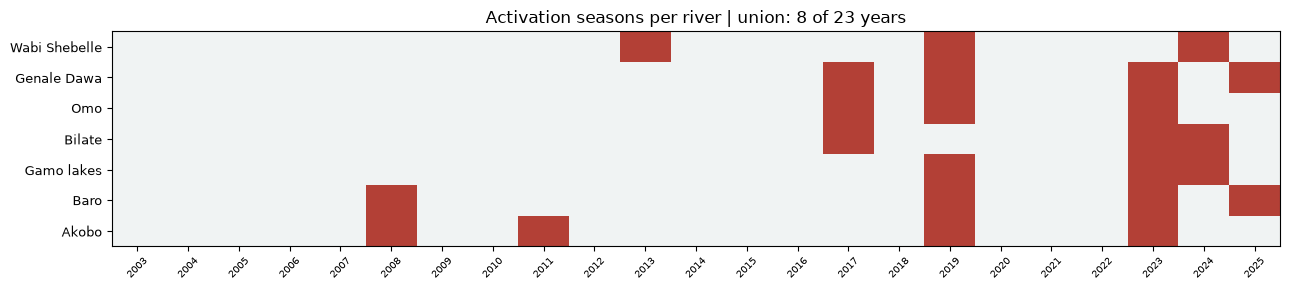
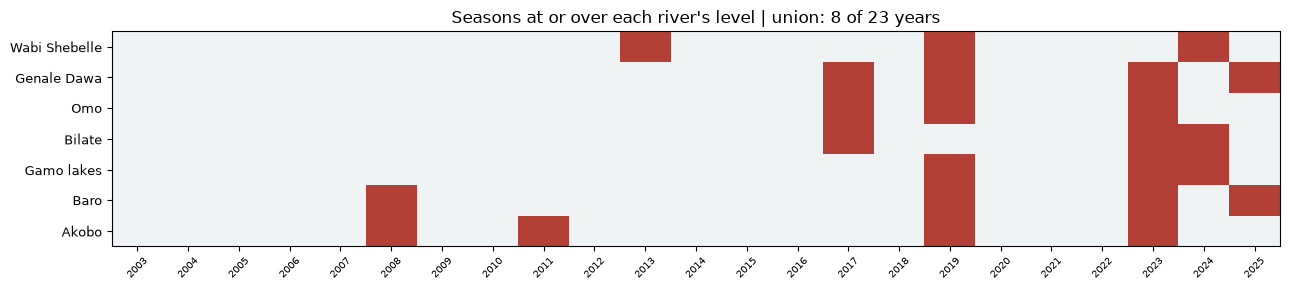
Methodology page: monitored-condition wording, no activation language
The page now describes levels being reached (keybox "The monitored
condition", "years when a level was reached") and states plainly that
there is no official trigger and nothing is released. The tiles figure
in notebook 04 retitled to match. Live watch page untouched.

Changed region(s): [[0.3413, 0.031, 0.7448, 0.0931]]

diff --git a/docs/methodology/index.html b/docs/methodology/index.html
@@ -4,7 +4,7 @@
 <meta charset="utf-8">
 <meta name="viewport" content="width=device-width, initial-scale=1">
 <title>Riverine Flood Watch Methodology</title>
-<meta name="description" content="How the Ethiopia Riverine Flood Watch works: the rivers and zones covered, how each river's OND activation level was set, the backtest and the impact record.">
+<meta name="description" content="How the Ethiopia Riverine Flood Watch works: the rivers and zones covered, how each river's OND level was set, the backtest and the impact record.">
 <link rel="preconnect" href="https://fonts.googleapis.com">
 <link rel="preconnect" href="https://fonts.gstatic.com" crossorigin>
 <link href="https://fonts.googleapis.com/css2?family=Merriweather:wght@700&family=Roboto:wght@400;500;700&display=swap" rel="stylesheet">
@@ -73,23 +73,25 @@ footer p { margin:5px 0; line-height:1.6; }
       <p class="crumb"><a href="../">Ethiopia Riverine Flood Watch</a> / methodology</p>
       <h1>How the Riverine Flood Watch works</h1>
       <p>What sits behind the watch page: the rivers and zones it covers, how each river's
-         October to December activation level was set, the alternatives that were tested, and how
-         the activation years line up with the flood impact records. Every number, table and
+         October to December level was set, the alternatives that were tested, and how the
+         years when levels were reached line up with the flood impact records. Every number, table and
          figure below comes from the analysis notebook's own output.</p>
     </div>
   </header>
 
   <article>
     <div class="keybox">
-      <p class="status">The activation rule</p>
-      <p>Reached when any of the seven river systems (Wabi Shebelle | Genale Dawa | lower Omo |
-         Bilate | Abaya-Chamo lakes | Baro | Akobo) is at or over its OND activation level on a
-         forecast day between 1 October and 31 December. Each river's level starts at the level
-         of its 3rd-largest OND season on the 2003 to 2025 GloFAS record and is lowered where
-         that catches further seasons already inside the watch's activation years, without
-         letting any new year in: a 1-in-8 to 1-in-6 event depending on the river. Overall
-         activation frequency: 8 years in 23 = 1-in-3.0 (2008, 2011, 2013, 2017, 2019,
-         2023, 2024, 2025).</p>
+      <p class="status">The monitored condition</p>
+      <p>The watch page shows REACHED when any of the seven river systems (Wabi Shebelle |
+         Genale Dawa | lower Omo | Bilate | Abaya-Chamo lakes | Baro | Akobo) is at or over its
+         OND level on a forecast day between 1 October and 31 December. Each river's level
+         starts at the level of its 3rd-largest OND season on the 2003 to 2025 GloFAS record
+         and is lowered where that catches further seasons in years when a level was already
+         reached, without letting any new year in: a 1-in-8 to 1-in-6 event depending on the
+         river. On the record, at least one river is at or over its level in 8 years in 23 =
+         1-in-3.0 (2008, 2011, 2013, 2017, 2019, 2023, 2024, 2025). This is a monitoring
+         condition only: there is no official trigger behind this page and nothing is released
+         when a level is reached.</p>
     </div>
 
     <h2>The rivers and zones covered</h2>
@@ -105,68 +107,68 @@ footer p { margin:5px 0; line-height:1.6; }
        peak divided by its median OND seasonal maximum, which lets stations of very different
        size carry equal weight inside one system. The river's threshold ratio starts at its
        3rd-largest season statistic and is lowered to also catch its lower-ranked seasons that
-       fall in the overall activation years, stopping at the first season outside
+       fall in years when a level was already reached, stopping at the first season outside
        them so no new year can enter (Genale Dawa and Baro gain 2019, Akobo gains 2008). Each
        station's level in m³/s is that ratio times the station's median OND seasonal maximum.
        Record: GloFAS v4 reanalysis at channel-snapped cells, October to December, 2003 to
        2025. v4 is pinned because the operational forecast runs at v4 scale.</p>
-    <div class="tablewrap"><table class="data"><thead><tr><th>River system</th><th>Station</th><th>Zone</th><th class="num">Median OND max (m³/s)</th><th class="num">Activation level (m³/s)</th><th class="num">Level / median</th></tr></thead><tbody><tr class="group"><td class="river" rowspan="5">Wabi Shebelle</td><td>Shabelle at Gode (G1904)</td><td>Shebelle</td><td class="num">989</td><td class="num"><strong>1,213</strong></td><td class="num">1.23</td></tr><tr><td>Shabelle upstream (43.03E 6.08N)</td><td>Shebelle</td><td class="num">986</td><td class="num"><strong>1,210</strong></td><td class="num">1.23</td></tr><tr><td>Shabelle mid (44.13E 5.63N)</td><td>Shebelle</td><td class="num">989</td><td class="num"><strong>1,213</strong></td><td class="num">1.23</td></tr><tr><td>Shabelle lower (44.53E 5.43N)</td><td>Shebelle</td><td class="num">989</td><td class="num"><strong>1,213</strong></td><td class="num">1.23</td></tr><tr><td>Shabelle at border (44.83E 5.13N)</td><td>Shebelle</td><td class="num">988</td><td class="num"><strong>1,213</strong></td><td class="num">1.23</td></tr><tr class="group"><td class="river" rowspan="4">Genale Dawa</td><td>Genale upper (40.45E 5.35N)</td><td>Liban</td><td class="num">527</td><td class="num"><strong>790</strong></td><td class="num">1.50</td></tr><tr><td>Genale/Juba at Dolow</td><td>Liban</td><td class="num">1,558</td><td class="num"><strong>2,337</strong></td><td class="num">1.50</td></tr><tr><td>Dawa (40.73E 4.43N)</td><td>Daawa</td><td class="num">280</td><td class="num"><strong>419</strong></td><td class="num">1.50</td></tr><tr><td>Webe Gestro (42.08E 4.73N)</td><td>Afder</td><td class="num">193</td><td class="num"><strong>290</strong></td><td class="num">1.50</td></tr><tr class="group"><td class="river" rowspan="1">Omo</td><td>Omo lower (South Omo)</td><td>South Omo</td><td class="num">3,806</td><td class="num"><strong>4,830</strong></td><td class="num">1.27</td></tr><tr class="group"><td class="river" rowspan="1">Bilate</td><td>Bilate (Loka Abaya)</td><td>Sidama</td><td class="num">142</td><td class="num"><strong>217</strong></td><td class="num">1.53</td></tr><tr class="group"><td class="river" rowspan="1">Gamo lakes</td><td>Abaya-Chamo lakes (Kulfo area)</td><td>Gamo</td><td class="num">462</td><td class="num"><strong>706</strong></td><td class="num">1.53</td></tr><tr class="group"><td class="river" rowspan="1">Baro</td><td>Baro at Itang</td><td>Itang Special woreda</td><td class="num">1,601</td><td class="num"><strong>1,989</strong></td><td class="num">1.24</td></tr><tr class="group"><td class="river" rowspan="1">Akobo</td><td>Akobo (Agnewak)</td><td>Agnewak</td><td class="num">285</td><td class="num"><strong>368</strong></td><td class="num">1.29</td></tr></tbody></table></div>
-    <p class="tnote">Level / median: how far above a typical OND peak the activation level sits.
+    <div class="tablewrap"><table class="data"><thead><tr><th>River system</th><th>Station</th><th>Zone</th><th class="num">Median OND max (m³/s)</th><th class="num">Level (m³/s)</th><th class="num">Level / median</th></tr></thead><tbody><tr class="group"><td class="river" rowspan="5">Wabi Shebelle</td><td>Shabelle at Gode (G1904)</td><td>Shebelle</td><td class="num">989</td><td class="num"><strong>1,213</strong></td><td class="num">1.23</td></tr><tr><td>Shabelle upstream (43.03E 6.08N)</td><td>Shebelle</td><td class="num">986</td><td class="num"><strong>1,210</strong></td><td class="num">1.23</td></tr><tr><td>Shabelle mid (44.13E 5.63N)</td><td>Shebelle</td><td class="num">989</td><td class="num"><strong>1,213</strong></td><td class="num">1.23</td></tr><tr><td>Shabelle lower (44.53E 5.43N)</td><td>Shebelle</td><td class="num">989</td><td class="num"><strong>1,213</strong></td><td class="num">1.23</td></tr><tr><td>Shabelle at border (44.83E 5.13N)</td><td>Shebelle</td><td class="num">988</td><td class="num"><strong>1,213</strong></td><td class="num">1.23</td></tr><tr class="group"><td class="river" rowspan="4">Genale Dawa</td><td>Genale upper (40.45E 5.35N)</td><td>Liban</td><td class="num">527</td><td class="num"><strong>790</strong></td><td class="num">1.50</td></tr><tr><td>Genale/Juba at Dolow</td><td>Liban</td><td class="num">1,558</td><td class="num"><strong>2,337</strong></td><td class="num">1.50</td></tr><tr><td>Dawa (40.73E 4.43N)</td><td>Daawa</td><td class="num">280</td><td class="num"><strong>419</strong></td><td class="num">1.50</td></tr><tr><td>Webe Gestro (42.08E 4.73N)</td><td>Afder</td><td class="num">193</td><td class="num"><strong>290</strong></td><td class="num">1.50</td></tr><tr class="group"><td class="river" rowspan="1">Omo</td><td>Omo lower (South Omo)</td><td>South Omo</td><td class="num">3,806</td><td class="num"><strong>4,830</strong></td><td class="num">1.27</td></tr><tr class="group"><td class="river" rowspan="1">Bilate</td><td>Bilate (Loka Abaya)</td><td>Sidama</td><td class="num">142</td><td class="num"><strong>217</strong></td><td class="num">1.53</td></tr><tr class="group"><td class="river" rowspan="1">Gamo lakes</td><td>Abaya-Chamo lakes (Kulfo area)</td><td>Gamo</td><td class="num">462</td><td class="num"><strong>706</strong></td><td class="num">1.53</td></tr><tr class="group"><td class="river" rowspan="1">Baro</td><td>Baro at Itang</td><td>Itang Special woreda</td><td class="num">1,601</td><td class="num"><strong>1,989</strong></td><td class="num">1.24</td></tr><tr class="group"><td class="river" rowspan="1">Akobo</td><td>Akobo (Agnewak)</td><td>Agnewak</td><td class="num">285</td><td class="num"><strong>368</strong></td><td class="num">1.29</td></tr></tbody></table></div>
+    <p class="tnote">Level / median: how far above a typical OND peak the level sits.
        All Wabi Shebelle stations share one ratio (1.23) because the river's statistic is set
        by its floodiest station each season; the same holds within each river system.</p>
 
     <h2>Twenty-three OND seasons, river by river</h2>
     <figure>
-      <img src="figs/season_statistic.png" alt="Season statistic per river with the activation seasons boxed">
+      <img src="figs/season_statistic.png" alt="Season statistic per river with the reached seasons boxed">
       <figcaption>Each river's season statistic (normalised seasonal peak), 2003 to 2025.
         Red boxes: the seasons at or over the river's level.</figcaption>
     </figure>
     <figure>
-      <img src="figs/activations.png" alt="Activation seasons per river and the union">
-      <figcaption>Seasons at or over each river's level, and the any-river union the watch
-        activates on.</figcaption>
+      <img src="figs/activations.png" alt="Seasons at or over each river's level and the union">
+      <figcaption>Seasons at or over each river's level, and the any-river union across
+        them.</figcaption>
     </figure>
     <div class="tablewrap"><table class="data"><thead><tr><th>River system</th><th>OND seasons at or over its level</th><th class="num">Frequency</th></tr></thead><tbody><tr><td class="river">Wabi Shebelle</td><td><span class="yr">2013</span> <span class="yr">2019</span> <span class="yr">2024</span></td><td class="num">1-in-8</td></tr><tr><td class="river">Genale Dawa</td><td><span class="yr">2017</span> <span class="yr">2019</span> <span class="yr">2023</span> <span class="yr">2025</span></td><td class="num">1-in-6</td></tr><tr><td class="river">Omo</td><td><span class="yr">2017</span> <span class="yr">2019</span> <span class="yr">2023</span></td><td class="num">1-in-8</td></tr><tr><td class="river">Bilate</td><td><span class="yr">2017</span> <span class="yr">2023</span> <span class="yr">2024</span></td><td class="num">1-in-8</td></tr><tr><td class="river">Gamo lakes</td><td><span class="yr">2019</span> <span class="yr">2023</span> <span class="yr">2024</span></td><td class="num">1-in-8</td></tr><tr><td class="river">Baro</td><td><span class="yr">2008</span> <span class="yr">2019</span> <span class="yr">2023</span> <span class="yr">2025</span></td><td class="num">1-in-6</td></tr><tr><td class="river">Akobo</td><td><span class="yr">2008</span> <span class="yr">2011</span> <span class="yr">2019</span> <span class="yr">2023</span></td><td class="num">1-in-6</td></tr><tr class="total"><td class="river">Any river (overall)</td><td><span class="yr">2008</span> <span class="yr">2011</span> <span class="yr">2013</span> <span class="yr">2017</span> <span class="yr">2019</span> <span class="yr">2023</span> <span class="yr">2024</span> <span class="yr">2025</span></td><td class="num">1-in-3.0</td></tr></tbody></table></div>
 
     <h2>How the depth was chosen</h2>
     <p>The working group's constraints were per-river ranking, an any-river rule, and an
-       overall activation frequency of 1-in-3. At a per-river top third the union activates in
-       18 of 23 years (1-in-1.3). The candidates compared:</p>
-    <div class="tablewrap"><table class="data"><thead><tr><th>Candidate rule</th><th class="num">Activation years</th><th class="num">Overall frequency</th><th class="num">EM-DAT years caught</th><th class="num">CERF years caught</th><th class="num">FloodScan RP3 years caught</th><th>Years</th></tr></thead><tbody><tr class="adopted"><td class="wrap">any river, per-river top 3 (indiv 1-in-8) <span class="tag">adopted</span></td><td class="num">8 of 23</td><td class="num">1-in-3.0</td><td class="num">4 of 7</td><td class="num">1 of 4</td><td class="num">3 of 8</td><td class="wrap dim">2008, 2011, 2013, 2017, 2019, 2023, 2024, 2025</td></tr><tr><td class="wrap">any river, per-river top 4 (indiv 1-in-6)</td><td class="num">10 of 23</td><td class="num">1-in-2.4</td><td class="num">4 of 7</td><td class="num">2 of 4</td><td class="num">3 of 8</td><td class="wrap dim">2008, 2011, 2013, 2014, 2017, 2019, 2020, 2023...</td></tr><tr><td class="wrap">any river, per-river top 8 (indiv 1-in-3)</td><td class="num">18 of 23</td><td class="num">1-in-1.3</td><td class="num">6 of 7</td><td class="num">3 of 4</td><td class="num">5 of 8</td><td class="wrap dim">2005, 2007, 2008, 2010, 2011, 2012, 2013, 2014...</td></tr><tr><td class="wrap">top third per river, at least 3 of 7 rivers to...</td><td class="num">10 of 23</td><td class="num">1-in-2.4</td><td class="num">3 of 7</td><td class="num">2 of 4</td><td class="num">2 of 8</td><td class="wrap dim">2008, 2013, 2014, 2017, 2019, 2020, 2021, 2023...</td></tr><tr><td class="wrap">top third per river, at least 4 of 7 rivers to...</td><td class="num">6 of 23</td><td class="num">1-in-4.0</td><td class="num">2 of 7</td><td class="num">2 of 4</td><td class="num">2 of 8</td><td class="wrap dim">2014, 2017, 2019, 2020, 2023, 2024</td></tr></tbody></table></div>
+       overall frequency of 1-in-3. At a per-river top third, at least one river is over its
+       level in 18 of 23 years (1-in-1.3). The candidates compared:</p>
+    <div class="tablewrap"><table class="data"><thead><tr><th>Candidate rule</th><th class="num">Years reached</th><th class="num">Overall frequency</th><th class="num">EM-DAT years caught</th><th class="num">CERF years caught</th><th class="num">FloodScan RP3 years caught</th><th>Years</th></tr></thead><tbody><tr class="adopted"><td class="wrap">any river, per-river top 3 (indiv 1-in-8) <span class="tag">adopted</span></td><td class="num">8 of 23</td><td class="num">1-in-3.0</td><td class="num">4 of 7</td><td class="num">1 of 4</td><td class="num">3 of 8</td><td class="wrap dim">2008, 2011, 2013, 2017, 2019, 2023, 2024, 2025</td></tr><tr><td class="wrap">any river, per-river top 4 (indiv 1-in-6)</td><td class="num">10 of 23</td><td class="num">1-in-2.4</td><td class="num">4 of 7</td><td class="num">2 of 4</td><td class="num">3 of 8</td><td class="wrap dim">2008, 2011, 2013, 2014, 2017, 2019, 2020, 2023...</td></tr><tr><td class="wrap">any river, per-river top 8 (indiv 1-in-3)</td><td class="num">18 of 23</td><td class="num">1-in-1.3</td><td class="num">6 of 7</td><td class="num">3 of 4</td><td class="num">5 of 8</td><td class="wrap dim">2005, 2007, 2008, 2010, 2011, 2012, 2013, 2014...</td></tr><tr><td class="wrap">top third per river, at least 3 of 7 rivers to...</td><td class="num">10 of 23</td><td class="num">1-in-2.4</td><td class="num">3 of 7</td><td class="num">2 of 4</td><td class="num">2 of 8</td><td class="wrap dim">2008, 2013, 2014, 2017, 2019, 2020, 2021, 2023...</td></tr><tr><td class="wrap">top third per river, at least 4 of 7 rivers to...</td><td class="num">6 of 23</td><td class="num">1-in-4.0</td><td class="num">2 of 7</td><td class="num">2 of 4</td><td class="num">2 of 8</td><td class="wrap dim">2014, 2017, 2019, 2020, 2023, 2024</td></tr></tbody></table></div>
     <p>The adopted depth is the first row: the only candidate meeting the overall 1-in-3 exactly
        while keeping the any-river shape and per-river ranking. Its per-river bar is 1-in-8
        rather than the top third; the working group accepted that trade on 29 September 2026.
        On 30 September 2026 the per-river levels were lowered within that rule, just far enough
-       to catch each river's lower-ranked seasons that are already overall activation years
+       to catch each river's lower-ranked seasons in years when a level was already reached
        (Genale Dawa and Baro gain 2019, Akobo gains 2008, each moving to 1-in-6; the other four
-       rivers' next seasons fall outside the activation years, so their levels are unchanged).
-       The overall activation years and the 1-in-3.0 frequency are unchanged; no new years
+       rivers' next seasons fall outside those years, so their levels are unchanged).
+       The overall reached years and the 1-in-3.0 frequency are unchanged; no new years
        enter.</p>
     <p class="tnote">Years caught: of the years each impact record flags (7 EM-DAT, 4 CERF,
-       8 FloodScan RP3), how many are activation years.</p>
+       8 FloodScan RP3), how many fall in that rule's reached years.</p>
 
-    <h2>Activations beside the impact records, year by year</h2>
-    <p>Three records beside the activation years: FloodScan flood events in the Somali-region riverine
+    <h2>The years reached, beside the impact records</h2>
+    <p>Three records beside the years when a level was reached: FloodScan flood events in the Somali-region riverine
        zones (satellite; the extract for the other zones is not built and is a named gap),
        EM-DAT flood events whose locations name the riverine areas and whose dates touch OND
        (manually refreshed snapshot), and CERF allocations to Ethiopia with emergency type
        flood (national record).</p>
-    <div class="tablewrap"><table class="data"><thead><tr><th class="num">Year</th><th>Activation</th><th class="ctr">FloodScan RP2</th><th class="ctr">FloodScan RP3</th><th>EM-DAT riverine floods</th><th>CERF flood allocations</th></tr></thead><tbody><tr><td class="num">2003</td><td></td><td class="ctr"></td><td class="ctr"></td><td></td><td></td></tr><tr><td class="num">2004</td><td></td><td class="ctr"><span class="dot"></span></td><td class="ctr"><span class="dot"></span></td><td></td><td></td></tr><tr><td class="num">2005</td><td></td><td class="ctr"></td><td class="ctr"></td><td></td><td></td></tr><tr><td class="num">2006</td><td></td><td class="ctr"><span class="dot"></span></td><td class="ctr"><span class="dot"></span></td><td>1 event : 361,600 affected</td><td>USD 5.0M (2)</td></tr><tr><td class="num">2007</td><td></td><td class="ctr"><span class="dot"></span></td><td class="ctr"><span class="dot"></span></td><td>1 event : 239,586 affected</td><td></td></tr><tr class="hit"><td class="num">2008</td><td><span class="reached">reached</span></td><td class="ctr"><span class="dot"></span></td><td class="ctr"></td><td>1 event : 23,831 affected</td><td></td></tr><tr><td class="num">2009</td><td></td><td class="ctr"><span class="dot"></span></td><td class="ctr"><span class="dot"></span></td><td></td><td></td></tr><tr><td class="num">2010</td><td></td><td class="ctr"></td><td class="ctr"></td><td></td><td></td></tr><tr class="hit"><td class="num">2011</td><td><span class="reached">reached</span></td><td class="ctr"><span class="dot"></span></td><td class="ctr"><span class="dot"></span></td><td>1 event : 40,200 affected</td><td></td></tr><tr><td class="num">2012</td><td></td><td class="ctr"></td><td class="ctr"></td><td></td><td></td></tr><tr class="hit"><td class="num">2013</td><td><span class="reached">reached</span></td><td class="ctr"><span class="dot"></span></td><td class="ctr"></td><td></td><td></td></tr><tr><td class="num">2014</td><td></td><td class="ctr"></td><td class="ctr"></td><td></td><td></td></tr><tr><td class="num">2015</td><td></td><td class="ctr"><span class="dot"></span></td><td class="ctr"></td><td>1 event : 210,600 affected</td><td></td></tr><tr><td class="num">2016</td><td></td><td class="ctr"></td><td class="ctr"></td><td></td><td></td></tr><tr class="hit"><td class="num">2017</td><td><span class="reached">reached</span></td><td class="ctr"><span class="dot"></span></td><td class="ctr"><span class="dot"></span></td><td></td><td></td></tr><tr><td class="num">2018</td><td></td><td class="ctr"></td><td class="ctr"></td><td></td><td>USD 5.3M (1)</td></tr><tr class="hit"><td class="num">2019</td><td><span class="reached">reached</span></td><td class="ctr"></td><td class="ctr"></td><td>1 event : 200,000 affected</td><td></td></tr><tr><td class="num">2020</td><td></td><td class="ctr"></td><td class="ctr"></td><td></td><td>USD 8.0M (1)</td></tr><tr><td class="num">2021</td><td></td><td class="ctr"><span class="dot"></span></td><td class="ctr"></td><td></td><td></td></tr><tr><td class="num">2022</td><td></td><td class="ctr"><span class="dot"></span></td><td class="ctr"><span class="dot"></span></td><td>1 event : 264,831 affected</td><td></td></tr><tr class="hit"><td class="num">2023</td><td><span class="reached">reached</span></td><td class="ctr"><span class="dot"></span></td><td class="ctr"><span class="dot"></span></td><td>1 event : 1,500,000 affected</td><td>USD 8.0M (1)</td></tr><tr class="hit"><td class="num">2024</td><td><span class="reached">reached</span></td><td class="ctr"></td><td class="ctr"></td><td></td><td></td></tr><tr class="hit"><td class="num">2025</td><td><span class="reached">reached</span></td><td class="ctr"></td><td class="ctr"></td><td></td><td></td></tr></tbody></table></div>
-    <p class="tnote">Shaded rows: activation years. FloodScan columns cover the
+    <div class="tablewrap"><table class="data"><thead><tr><th class="num">Year</th><th>Level reached</th><th class="ctr">FloodScan RP2</th><th class="ctr">FloodScan RP3</th><th>EM-DAT riverine floods</th><th>CERF flood allocations</th></tr></thead><tbody><tr><td class="num">2003</td><td></td><td class="ctr"></td><td class="ctr"></td><td></td><td></td></tr><tr><td class="num">2004</td><td></td><td class="ctr"><span class="dot"></span></td><td class="ctr"><span class="dot"></span></td><td></td><td></td></tr><tr><td class="num">2005</td><td></td><td class="ctr"></td><td class="ctr"></td><td></td><td></td></tr><tr><td class="num">2006</td><td></td><td class="ctr"><span class="dot"></span></td><td class="ctr"><span class="dot"></span></td><td>1 event : 361,600 affected</td><td>USD 5.0M (2)</td></tr><tr><td class="num">2007</td><td></td><td class="ctr"><span class="dot"></span></td><td class="ctr"><span class="dot"></span></td><td>1 event : 239,586 affected</td><td></td></tr><tr class="hit"><td class="num">2008</td><td><span class="reached">reached</span></td><td class="ctr"><span class="dot"></span></td><td class="ctr"></td><td>1 event : 23,831 affected</td><td></td></tr><tr><td class="num">2009</td><td></td><td class="ctr"><span class="dot"></span></td><td class="ctr"><span class="dot"></span></td><td></td><td></td></tr><tr><td class="num">2010</td><td></td><td class="ctr"></td><td class="ctr"></td><td></td><td></td></tr><tr class="hit"><td class="num">2011</td><td><span class="reached">reached</span></td><td class="ctr"><span class="dot"></span></td><td class="ctr"><span class="dot"></span></td><td>1 event : 40,200 affected</td><td></td></tr><tr><td class="num">2012</td><td></td><td class="ctr"></td><td class="ctr"></td><td></td><td></td></tr><tr class="hit"><td class="num">2013</td><td><span class="reached">reached</span></td><td class="ctr"><span class="dot"></span></td><td class="ctr"></td><td></td><td></td></tr><tr><td class="num">2014</td><td></td><td class="ctr"></td><td class="ctr"></td><td></td><td></td></tr><tr><td class="num">2015</td><td></td><td class="ctr"><span class="dot"></span></td><td class="ctr"></td><td>1 event : 210,600 affected</td><td></td></tr><tr><td class="num">2016</td><td></td><td class="ctr"></td><td class="ctr"></td><td></td><td></td></tr><tr class="hit"><td class="num">2017</td><td><span class="reached">reached</span></td><td class="ctr"><span class="dot"></span></td><td class="ctr"><span class="dot"></span></td><td></td><td></td></tr><tr><td class="num">2018</td><td></td><td class="ctr"></td><td class="ctr"></td><td></td><td>USD 5.3M (1)</td></tr><tr class="hit"><td class="num">2019</td><td><span class="reached">reached</span></td><td class="ctr"></td><td class="ctr"></td><td>1 event : 200,000 affected</td><td></td></tr><tr><td class="num">2020</td><td></td><td class="ctr"></td><td class="ctr"></td><td></td><td>USD 8.0M (1)</td></tr><tr><td class="num">2021</td><td></td><td class="ctr"><span class="dot"></span></td><td class="ctr"></td><td></td><td></td></tr><tr><td class="num">2022</td><td></td><td class="ctr"><span class="dot"></span></td><td class="ctr"><span class="dot"></span></td><td>1 event : 264,831 affected</td><td></td></tr><tr class="hit"><td class="num">2023</td><td><span class="reached">reached</span></td><td class="ctr"><span class="dot"></span></td><td class="ctr"><span class="dot"></span></td><td>1 event : 1,500,000 affected</td><td>USD 8.0M (1)</td></tr><tr class="hit"><td class="num">2024</td><td><span class="reached">reached</span></td><td class="ctr"></td><td class="ctr"></td><td></td><td></td></tr><tr class="hit"><td class="num">2025</td><td><span class="reached">reached</span></td><td class="ctr"></td><td class="ctr"></td><td></td><td></td></tr></tbody></table></div>
+    <p class="tnote">Shaded rows: years when a level was reached. FloodScan columns cover the
        Somali-region zones only; a dot marks a season with a flood event at that severity.</p>
 
     <h2>The same rule on v5 reanalysis</h2>
     <p>The live watch runs on GloFAS v4 levels because the operational forecast it reads runs
        at v4 scale. As a reference, the same construction was run on v5 reanalysis across all
        seven rivers (notebook 05; each station cell was checked against the v5 mean discharge
-       field and stays on-channel). The two records agree on six activation years (2008, 2017,
+       field and stays on-channel). The two records agree on six reached years (2008, 2017,
        2019, 2023, 2024, 2025); v5 adds 2014, 2020 and 2021 and drops 2011 and 2013. Of the
        years only v5 adds, 2020 is a CERF flood year; 2014 and 2021 appear in none of the
        impact records. 2006, the largest miss on v4, is not caught on v5 either: the Wabi
        Shebelle's 2006 season ranks 4th there, at 97 percent of its level.</p>
-    <div class="tablewrap"><table class="data"><thead><tr><th>Record</th><th class="num">Activation years</th><th class="num">Overall frequency</th><th class="num">EM-DAT years caught</th><th class="num">CERF years caught</th><th class="num">FloodScan RP3 years caught</th><th>Years</th></tr></thead><tbody><tr class="adopted"><td class="wrap">v4, the watch record <span class="tag">live</span></td><td class="num">8 of 23</td><td class="num">1-in-3.00</td><td class="num">4 of 7</td><td class="num">1 of 4</td><td class="num">3 of 8</td><td class="wrap dim">2008, 2011, 2013, 2017, 2019, 2023, 2024, 2025</td></tr><tr><td class="wrap">v5, this test</td><td class="num">9 of 23</td><td class="num">1-in-2.67</td><td class="num">3 of 7</td><td class="num">2 of 4</td><td class="num">2 of 8</td><td class="wrap dim">2008, 2014, 2017, 2019, 2020, 2021, 2023, 2024...</td></tr></tbody></table></div>
+    <div class="tablewrap"><table class="data"><thead><tr><th>Record</th><th class="num">Years reached</th><th class="num">Overall frequency</th><th class="num">EM-DAT years caught</th><th class="num">CERF years caught</th><th class="num">FloodScan RP3 years caught</th><th>Years</th></tr></thead><tbody><tr class="adopted"><td class="wrap">v4, the watch record <span class="tag">live</span></td><td class="num">8 of 23</td><td class="num">1-in-3.00</td><td class="num">4 of 7</td><td class="num">1 of 4</td><td class="num">3 of 8</td><td class="wrap dim">2008, 2011, 2013, 2017, 2019, 2023, 2024, 2025</td></tr><tr><td class="wrap">v5, this test</td><td class="num">9 of 23</td><td class="num">1-in-2.67</td><td class="num">3 of 7</td><td class="num">2 of 4</td><td class="num">2 of 8</td><td class="wrap dim">2008, 2014, 2017, 2019, 2020, 2021, 2023, 2024...</td></tr></tbody></table></div>
     <p class="tnote">Same construction on each version's own record: per-river top 3 seasons,
-       lowered within that record's overall activation years. v5 levels are not used anywhere
+       lowered within that record's own reached years. v5 levels are not used anywhere
        in monitoring; if GloFAS upgrades the operational system to v5, the levels would be
        re-fitted from notebook 05 (the depth re-chosen, not just re-ranked: on v5 the lowering
        step chains deeper, taking the Bilate to 9 kept seasons).</p>
@@ -205,7 +207,7 @@ footer p { margin:5px 0; line-height:1.6; }
   <footer>
     <p>Source: <a href="https://github.com/OCHA-DAP/ds-aa-eth-flooding/blob/main/analysis/04_ond_trigger_design.ipynb">analysis/04_ond_trigger_design.ipynb</a>
        and <a href="https://github.com/OCHA-DAP/ds-aa-eth-flooding/blob/main/analysis/05_v5_reanalysis_test.ipynb">05_v5_reanalysis_test.ipynb</a>
-       in OCHA-DAP/ds-aa-eth-flooding · page generated 30 Sep 2026 10:09 UTC from the executed notebooks.</p>
+       in OCHA-DAP/ds-aa-eth-flooding · page generated 30 Sep 2026 10:21 UTC from the executed notebooks.</p>
     <p>Live monitoring: <a href="../">Ethiopia Riverine Flood Watch</a>.</p>
   </footer>
 </div>

diff --git a/analysis/make_methodology_page.py b/analysis/make_methodology_page.py
@@ -111,7 +111,7 @@ for river in RIVER_ORDER:
         )
 levels_table = (
     '<table class="data"><thead><tr><th>River system</th><th>Station</th><th>Zone</th>'
-    '<th class="num">Median OND max (m³/s)</th><th class="num">Activation level (m³/s)</th>'
+    '<th class="num">Median OND max (m³/s)</th><th class="num">Level (m³/s)</th>'
     '<th class="num">Level / median</th></tr></thead><tbody>' + "".join(rows) + "</tbody></table>"
 )
 
@@ -148,7 +148,7 @@ for i, r in opts.iterrows():
         f'<td class="wrap dim">{r["years"]}</td></tr>'
     )
 options_table = (
-    '<table class="data"><thead><tr><th>Candidate rule</th><th class="num">Activation years</th>'
+    '<table class="data"><thead><tr><th>Candidate rule</th><th class="num">Years reached</th>'
     '<th class="num">Overall frequency</th><th class="num">EM-DAT years caught</th>'
     '<th class="num">CERF years caught</th><th class="num">FloodScan RP3 years caught</th>'
     '<th>Years</th></tr></thead><tbody>' + "".join(opt_rows) + "</tbody></table>"
@@ -175,7 +175,7 @@ for _, r in imp.iterrows():
         f"<td>{emdat}</td><td>{cerf}</td></tr>"
     )
 impact_table = (
-    '<table class="data"><thead><tr><th class="num">Year</th><th>Activation</th>'
+    '<table class="data"><thead><tr><th class="num">Year</th><th>Level reached</th>'
     '<th class="ctr">FloodScan RP2</th><th class="ctr">FloodScan RP3</th>'
     "<th>EM-DAT riverine floods</th><th>CERF flood allocations</th></tr></thead><tbody>"
     + "".join(imp_rows) + "</tbody></table>"
@@ -201,7 +201,7 @@ for i, r in v5_cmp.iterrows():
         f'<td class="wrap dim">{r["years"]}</td></tr>'
     )
 v5_table = (
-    '<table class="data"><thead><tr><th>Record</th><th class="num">Activation years</th>'
+    '<table class="data"><thead><tr><th>Record</th><th class="num">Years reached</th>'
     '<th class="num">Overall frequency</th><th class="num">EM-DAT years caught</th>'
     '<th class="num">CERF years caught</th><th class="num">FloodScan RP3 years caught</th>'
     '<th>Years</th></tr></thead><tbody>' + "".join(v5_rows) + "</tbody></table>"
@@ -233,7 +233,7 @@ lead_table = (
 )
 
 fig_stat = png_of("Season statistic per river", "season_statistic.png")
-fig_tiles = png_of("Activation seasons per river", "activations.png")
+fig_tiles = png_of("Seasons at or over each river's level", "activations.png")
 
 generated = datetime.now(timezone.utc).strftime("%d %b %Y %H:%M UTC")
 
@@ -243,7 +243,7 @@ page = f"""<!DOCTYPE html>
 <meta charset="utf-8">
 <meta name="viewport" content="width=device-width, initial-scale=1">
 <title>Riverine Flood Watch Methodology</title>
-<meta name="description" content="How the Ethiopia Riverine Flood Watch works: the rivers and zones covered, how each river's OND activation level was set, the backtest and the impact record.">
+<meta name="description" content="How the Ethiopia Riverine Flood Watch works: the rivers and zones covered, how each river's OND level was set, the backtest and the impact record.">
 <link rel="preconnect" href="https://fonts.googleapis.com">
 <link rel="preconnect" href="https://fonts.gstatic.com" crossorigin>
 <link href="https://fonts.googleapis.com/css2?family=Merriweather:wght@700&family=Roboto:wght@400;500;700&display=swap" rel="stylesheet">
@@ -312,23 +312,25 @@ footer p {{ margin:5px 0; line-height:1.6; }}
       <p class="crumb"><a href="../">Ethiopia Riverine Flood Watch</a> / methodology</p>
       <h1>How the Riverine Flood Watch works</h1>
       <p>What sits behind the watch page: the rivers and zones it covers, how each river's
-         October to December activation level was set, the alternatives that were tested, and how
-         the activation years line up with the flood impact records. Every number, table and
+         October to December level was set, the alternatives that were tested, and how the
+         years when levels were reached line up with the flood impact records. Every number, table and
          figure below comes from the analysis notebook's own output.</p>
     </div>
   </header>
 
   <article>
     <div class="keybox">
-      <p class="status">The activation rule</p>
-      <p>Reached when any of the seven river systems (Wabi Shebelle | Genale Dawa | lower Omo |
-         Bilate | Abaya-Chamo lakes | Baro | Akobo) is at or over its OND activation level on a
-         forecast day between 1 October and 31 December. Each river's level starts at the level
-         of its 3rd-largest OND season on the 2003 to 2025 GloFAS record and is lowered where
-         that catches further seasons already inside the watch's activation years, without
-         letting any new year in: a 1-in-8 to 1-in-6 event depending on the river. Overall
-         activation frequency: 8 years in 23 = 1-in-3.0 (2008, 2011, 2013, 2017, 2019,
-         2023, 2024, 2025).</p>
+      <p class="status">The monitored condition</p>
+      <p>The watch page shows REACHED when any of the seven river systems (Wabi Shebelle |
+         Genale Dawa | lower Omo | Bilate | Abaya-Chamo lakes | Baro | Akobo) is at or over its
+         OND level on a forecast day between 1 October and 31 December. Each river's level
+         starts at the level of its 3rd-largest OND season on the 2003 to 2025 GloFAS record
+         and is lowered where that catches further seasons in years when a level was already
+         reached, without letting any new year in: a 1-in-8 to 1-in-6 event depending on the
+         river. On the record, at least one river is at or over its level in 8 years in 23 =
+         1-in-3.0 (2008, 2011, 2013, 2017, 2019, 2023, 2024, 2025). This is a monitoring
+         condition only: there is no official trigger behind this page and nothing is released
+         when a level is reached.</p>
     </div>
 
     <h2>The rivers and zones covered</h2>
@@ -344,68 +346,68 @@ footer p {{ margin:5px 0; line-height:1.6; }}
        peak divided by its median OND seasonal maximum, which lets stations of very different
        size carry equal weight inside one system. The river's threshold ratio starts at its
        3rd-largest season statistic and is lowered to also catch its lower-ranked seasons that
-       fall in the overall activation years, stopping at the first season outside
+       fall in years when a level was already reached, stopping at the first season outside
        them so no new year can enter (Genale Dawa and Baro gain 2019, Akobo gains 2008). Each
        station's level in m³/s is that ratio times the station's median OND seasonal maximum.
        Record: GloFAS v4 reanalysis at channel-snapped cells, October to December, 2003 to
        2025. v4 is pinned because the operational forecast runs at v4 scale.</p>
     <div class="tablewrap">{levels_table}</div>
-    <p class="tnote">Level / median: how far above a typical OND peak the activation level sits.
+    <p class="tnote">Level / median: how far above a typical OND peak the level sits.
        All Wabi Shebelle stations share one ratio (1.23) because the river's statistic is set
        by its floodiest station each season; the same holds within each river system.</p>
 
     <h2>Twenty-three OND seasons, river by river</h2>
     <figure>
-      <img src="{fig_stat}" alt="Season statistic per river with the activation seasons boxed">
+      <img src="{fig_stat}" alt="Season statistic per river with the reached seasons boxed">
       <figcaption>Each river's season statistic (normalised seasonal peak), 2003 to 2025.
         Red boxes: the seasons at or over the river's level.</figcaption>
     </figure>
     <figure>
-      <img src="{fig_tiles}" alt="Activation seasons per river and the union">
-      <figcaption>Seasons at or over each river's level, and the any-river union the watch
-        activates on.</figcaption>
+      <img src="{fig_tiles}" alt="Seasons at or over each river's level and the union">
+      <figcaption>Seasons at or over each river's level, and the any-river union across
+        them.</figcaption>
     </figure>
     <div class="tablewrap">{acts_table}</div>
 
     <h2>How the depth was chosen</h2>
     <p>The working group's constraints were per-river ranking, an any-river rule, and an
-       overall activation frequency of 1-in-3. At a per-river top third the union activates in
-       18 of 23 years (1-in-1.3). The candidates compared:</p>
+       overall frequency of 1-in-3. At a per-river top third, at least one river is over its
+       level in 18 of 23 years (1-in-1.3). The candidates compared:</p>
     <div class="tablewrap">{options_table}</div>
     <p>The adopted depth is the first row: the only candidate meeting the overall 1-in-3 exactly
        while keeping the any-river shape and per-river ranking. Its per-river bar is 1-in-8
        rather than the top third; the working group accepted that trade on 29 September 2026.
        On 30 September 2026 the per-river levels were lowered within that rule, just far enough
-       to catch each river's lower-ranked seasons that are already overall activation years
+       to catch each river's lower-ranked seasons in years when a level was already reached
        (Genale Dawa and Baro gain 2019, Akobo gains 2008, each moving to 1-in-6; the other four
-       rivers' next seasons fall outside the activation years, so their levels are unchanged).
-       The overall activation years and the 1-in-3.0 frequency are unchanged; no new years
+       rivers' next seasons fall outside those years, so their levels are unchanged).
+       The overall reached years and the 1-in-3.0 frequency are unchanged; no new years
        enter.</p>
     <p class="tnote">Years caught: of the years each impact record flags (7 EM-DAT, 4 CERF,
-       8 FloodScan RP3), how many are activation years.</p>
+       8 FloodScan RP3), how many fall in that rule's reached years.</p>
 
-    <h2>Activations beside the impact records, year by year</h2>
-    <p>Three records beside the activation years: FloodScan flood events in the Somali-region riverine
+    <h2>The years reached, beside the impact records</h2>
+    <p>Three records beside the years when a level was reached: FloodScan flood events in the Somali-region riverine
        zones (satellite; the extract for the other zones is not built and is a named gap),
        EM-DAT flood events whose locations name the riverine areas and whose dates touch OND
        (manually refreshed snapshot), and CERF allocations to Ethiopia with emergency type
        flood (national record).</p>
     <div class="tablewrap">{impact_table}</div>
-    <p class="tnote">Shaded rows: activation years. FloodScan columns cover the
+    <p class="tnote">Shaded rows: years when a level was reached. FloodScan columns cover the
        Somali-region zones only; a dot marks a season with a flood event at that severity.</p>
 
     <h2>The same rule on v5 reanalysis</h2>
     <p>The live watch runs on GloFAS v4 levels because the operational forecast it reads runs
        at v4 scale. As a reference, the same construction was run on v5 reanalysis across all
        seven rivers (notebook 05; each station cell was checked against the v5 mean discharge
-       field and stays on-channel). The two records agree on six activation years (2008, 2017,
+       field and stays on-channel). The two records agree on six reached years (2008, 2017,
        2019, 2023, 2024, 2025); v5 adds 2014, 2020 and 2021 and drops 2011 and 2013. Of the
        years only v5 adds, 2020 is a CERF flood year; 2014 and 2021 appear in none of the
        impact records. 2006, the largest miss on v4, is not caught on v5 either: the Wabi
        Shebelle's 2006 season ranks 4th there, at 97 percent of its level.</p>
     <div class="tablewrap">{v5_table}</div>
     <p class="tnote">Same construction on each version's own record: per-river top 3 seasons,
-       lowered within that record's overall activation years. v5 levels are not used anywhere
+       lowered within that record's own reached years. v5 levels are not used anywhere
        in monitoring; if GloFAS upgrades the operational system to v5, the levels would be
        re-fitted from notebook 05 (the depth re-chosen, not just re-ranked: on v5 the lowering
        step chains deeper, taking the Bilate to 9 kept seasons).</p>
